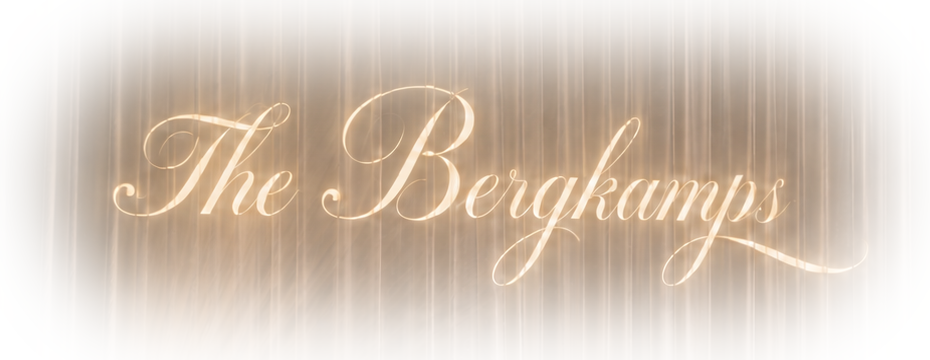
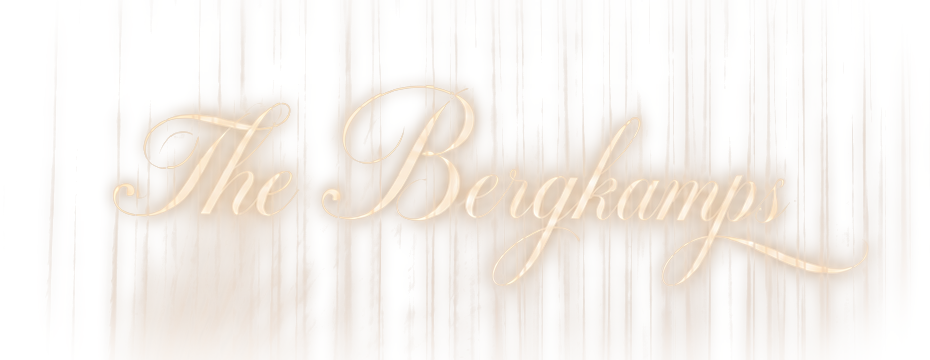
Blend the projection into the curtain as pure light
The Bergkamps cutout no longer carries its rectangle of curtain
texture: the projection's luminance becomes the image's alpha, so
only the glowing script and its soft falloff land on the curtain
behind it, with a faint gold drop shadow finishing the spill.

Claude-Session: https://claude.ai/code/session_01RD1PiT3VSjZV72q8ouH8tD

diff --git a/styles.css b/styles.css
@@ -958,14 +958,14 @@
     animation: ceremonyFadeIn 1.6s ease-out 0.3s forwards;
   }
   /* The projected name, lifted off the curtain and set above the title.
-     The image carries its own feathered alpha; screen blend melts the
-     leftover curtain texture into the scene. */
+     Only the light survives in the image's alpha channel, so it lands on
+     the curtain behind like a projection rather than a pasted panel. */
   .ceremony-bleed .hero-projection {
     display: block;
     width: min(520px, 84%);
     height: auto;
     margin: 0 auto 2px;
-    mix-blend-mode: screen;
+    filter: drop-shadow(0 0 26px rgba(227, 207, 156, 0.28));
   }
   .ceremony-bleed .content .kicker {
     color: rgba(255, 255, 255, 0.88);
